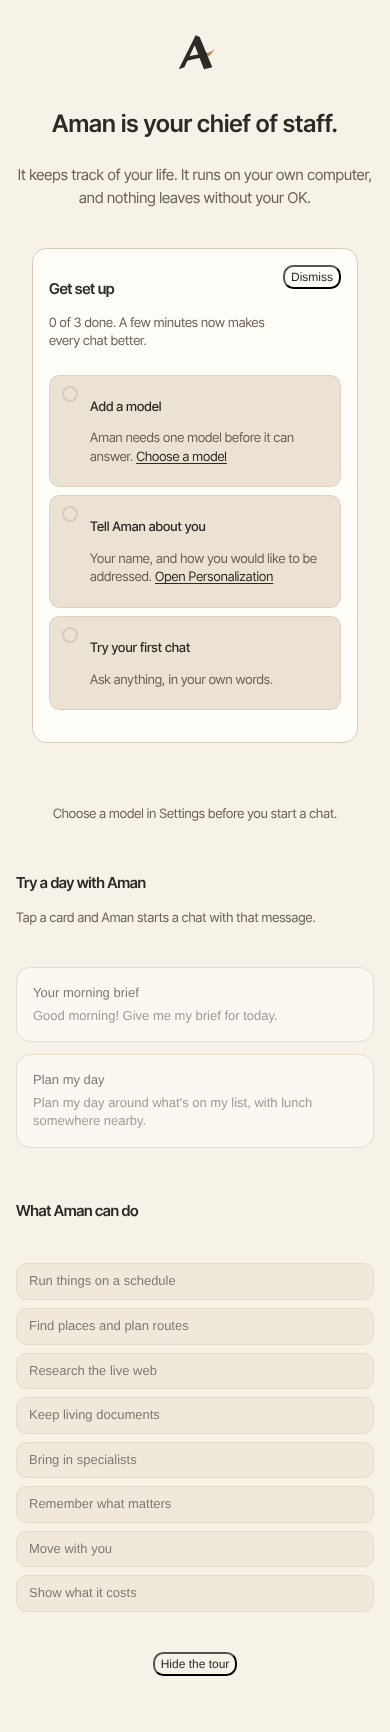
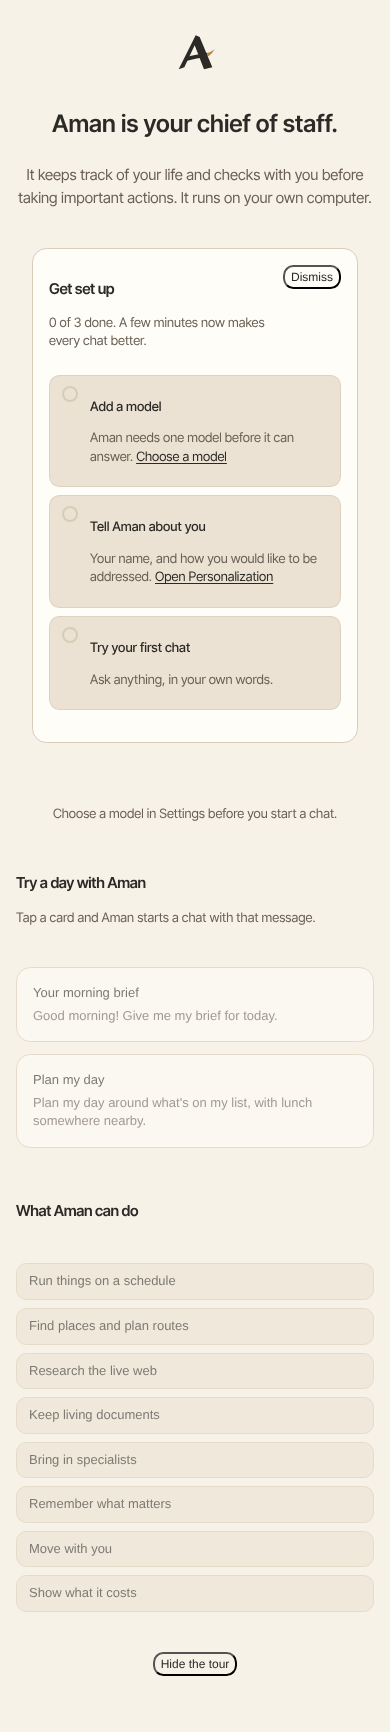
Use the refined tour line
Update the line under the tour headline to the owner's revised wording
and regenerate the after-screenshots.

Changed region(s): [[0.0308, 0.0935, 0.9538, 0.1247]]

diff --git a/packages/trueforge-ui/src/components/AmanTour.tsx b/packages/trueforge-ui/src/components/AmanTour.tsx
@@ -7,7 +7,7 @@ import { Button } from '../atoms/primitives/Button.js';
 
 export const TOUR_HEADLINE = 'Aman is your chief of staff.';
 export const TOUR_SUBLINE =
-  'It keeps track of your life. It runs on your own computer, and nothing leaves without your OK.';
+  'It keeps track of your life and checks with you before taking important actions. It runs on your own computer.';
 
 /** What this instance can do, so the tour only offers prompts that will work here. */
 export type TourCapabilities = {

diff --git a/packages/trueforge-ui/test/components/AmanTour.test.tsx b/packages/trueforge-ui/test/components/AmanTour.test.tsx
@@ -38,7 +38,7 @@ describe('AmanTour', () => {
     ).toBeInTheDocument();
     expect(
       screen.getByText(
-        'It keeps track of your life. It runs on your own computer, and nothing leaves without your OK.',
+        'It keeps track of your life and checks with you before taking important actions. It runs on your own computer.',
       ),
     ).toBeInTheDocument();
     expect(screen.getByRole('heading', { name: 'Try a day with Aman' })).toBeInTheDocument();
